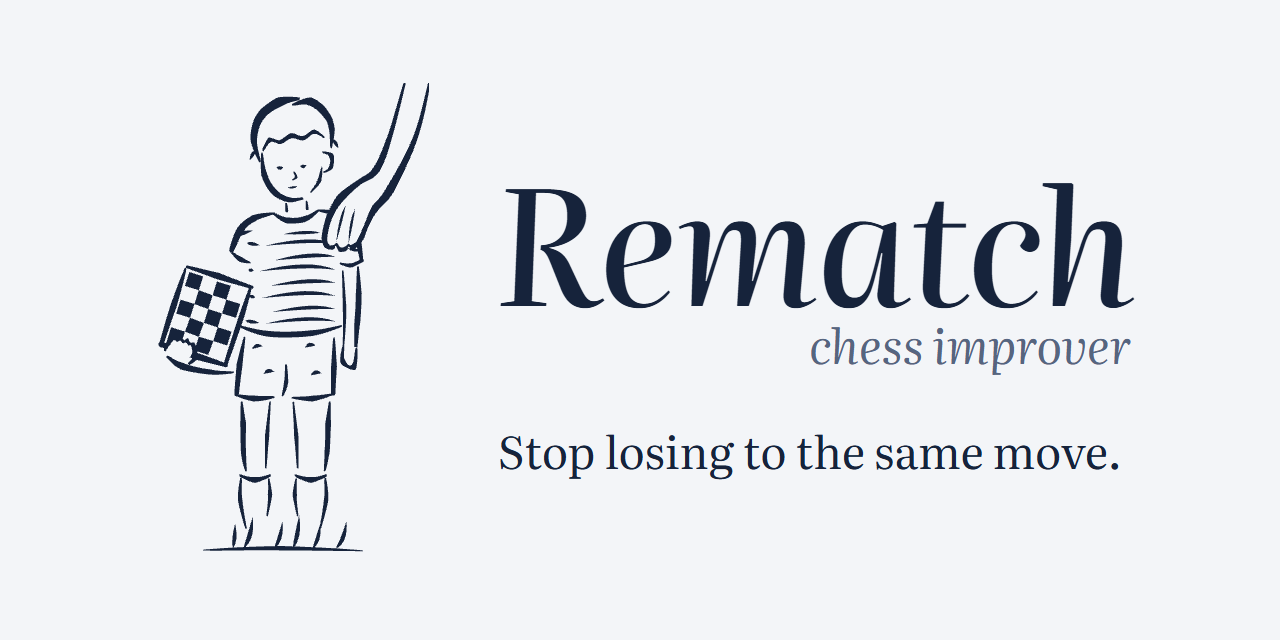
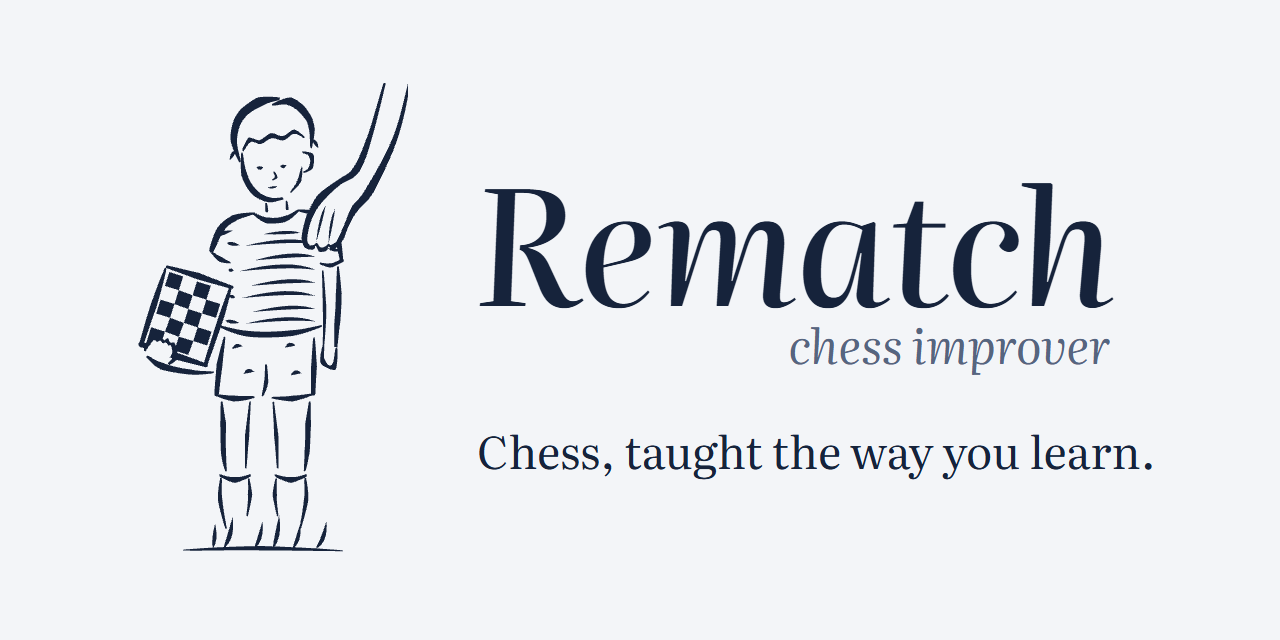
docs: roll out the chosen positioning, "Chess, taught the way you learn."
README, landing hero, site and repo descriptions, social cards.

Claude-Session: https://claude.ai/code/session_016XcpEwGx7ugY9Hcujn2JhE

Changed region(s): [[0.375, 0.2812, 0.875, 0.5938], [0.0938, 0.125, 0.3438, 0.875], [0.375, 0.6562, 0.9062, 0.75]]

diff --git a/apps/web/scripts/brand-assets-lib.ts b/apps/web/scripts/brand-assets-lib.ts
@@ -53,7 +53,7 @@ export function cardHtml(mark: string, faces: string, w: number, h: number): str
 ${mark.replace("<svg", `<svg height="${Math.round(h * 0.74)}" style="display:block;flex:none"`)}
 <div style="display:flex;flex-direction:column;align-items:flex-start">
 ${wordmarkBlock(Math.round(h * 0.25), BRAND_PENCIL)}
-  <p style="margin:${Math.round(h * 0.075)}px 0 0 ${Math.round(h * 0.008)}px;font-family:'Literata';font-weight:400;font-size:${Math.round(h * 0.07)}px">Stop losing to the same move.</p>
+  <p style="margin:${Math.round(h * 0.075)}px 0 0 ${Math.round(h * 0.008)}px;font-family:'Literata';font-weight:400;font-size:${Math.round(h * 0.07)}px">Chess, taught the way you learn.</p>
 </div></body>`;
 }
 

diff --git a/site/src/styles/landing.css b/site/src/styles/landing.css
@@ -341,7 +341,16 @@ main > section:not(.band) {
   font-size: var(--text-3xl);
   line-height: var(--text-3xl--line-height);
   text-wrap: balance;
-  max-width: 14ch;
+  max-width: 18ch;
+}
+
+.hero-kicker {
+  margin-top: calc(var(--spacing) * 3);
+  font-family: var(--font-serif);
+  font-style: italic;
+  font-size: var(--text-lg);
+  line-height: var(--text-lg--line-height);
+  color: var(--color-pencil);
 }
 
 .lead {

diff --git a/README.md b/README.md
@@ -2,9 +2,11 @@
 
 # Rematch, chess improver
 
-Stop losing to the same move.
+## Chess, taught the way you learn.
 
-Rematch is an open-source coach for chess.com players. Stockfish checks every move of your games, Rematch names the mistakes you keep repeating, drills you on your own missed moments and tells you, with honest numbers, whether it's working.
+A patient coach that learns your patterns, re-evaluates them after every game and points you at the one thing that will take you higher. The engine, the statistics and the AI are just how it works out what to teach you next.
+
+Stop losing to the same move. Rematch is free and open source, for chess.com players, and it tells you with honest numbers whether it's working.
 
 For anyone who knows how the pieces move, up to about 2000. Above 2000 it hasn't been tested with real players yet; if you're 2000+, [tell us where it's wrong](https://github.com/Terkea/rematch/issues/new?template=coaching_idea.yml).
 
